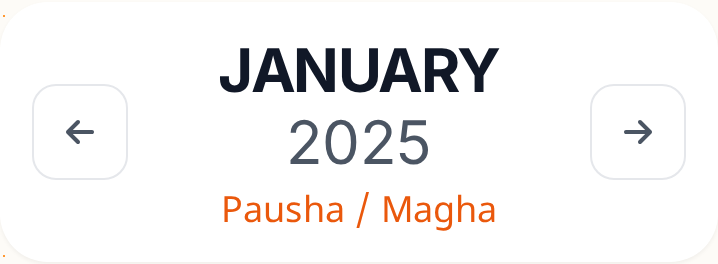
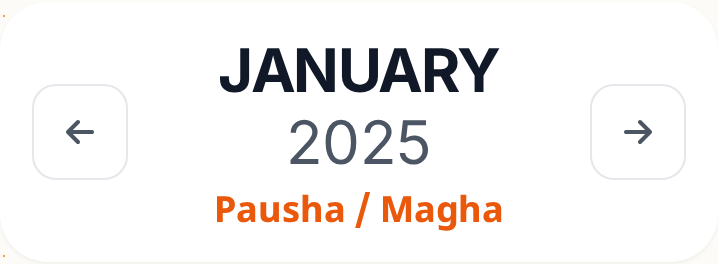
Update Indian Month Name font weight to Bold
- Changed the class of `#cal-indian-month` from `font-medium` to `font-bold` in `ai tex to calnder.html` to improve visibility and match design preference.
- Verified visual output using Playwright script `verify_header.py`.

Changed region(s): [[0.2758, 0.7273, 0.7047, 0.8788]]

diff --git a/ai tex to calnder.html b/ai tex to calnder.html
@@ -587,7 +587,7 @@ The word "Nua" means new and "Khai" means food.
                                     <span id="cal-year" class="text-3xl md:text-4xl font-light text-gray-600"></span>
                                 </div>
 
-                                <p id="cal-indian-month" class="text-lg text-orange-600 font-medium mt-1 font-oriya leading-tight hidden"></p>
+                                <p id="cal-indian-month" class="text-lg text-orange-600 font-bold mt-1 font-oriya leading-tight hidden"></p>
                                 
                                 <button onclick="jumpToToday()" id="btn-today" class="hidden mt-3 bg-orange-50 text-orange-600 px-5 py-2 rounded-full text-sm font-semibold hover:bg-orange-100 transition items-center gap-2 border border-orange-100">
                                     <i class="fa-solid fa-calendar-day"></i> Today
